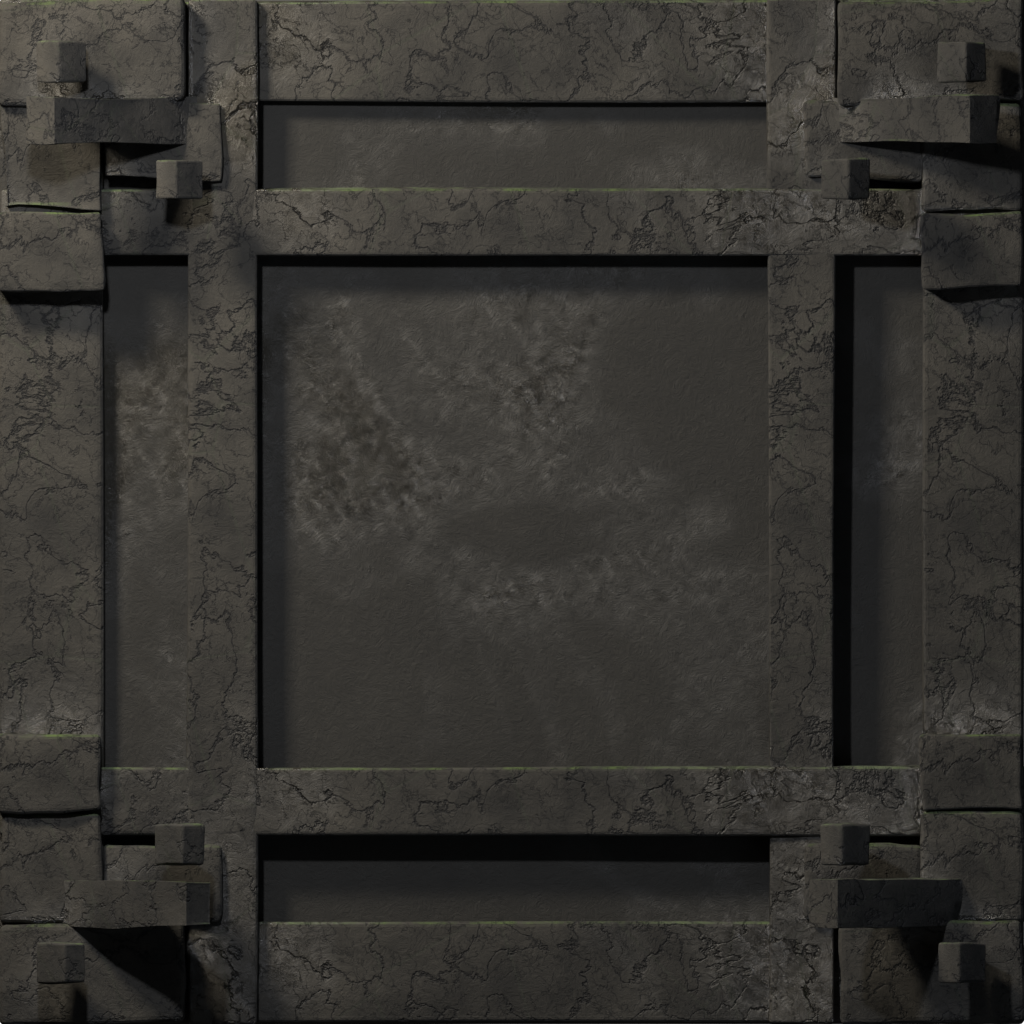
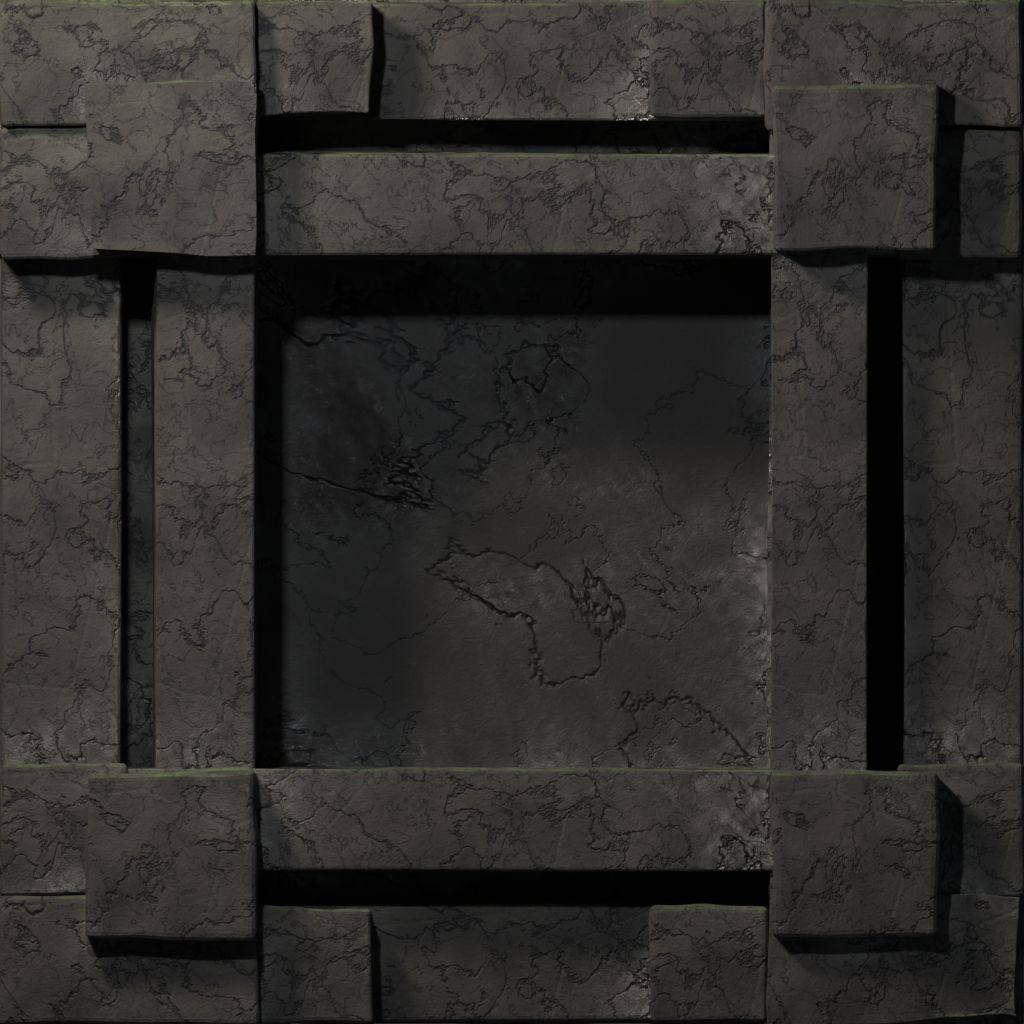
The card frame was built from the wrong numbers
Its outer border did not describe anything. Three courses standing on a
full-size backplate at y=-0.135, with the middle course at y=-0.105 -- so the
panel's own background sat nearer the camera than its masonry and hid a whole
course behind it. What showed was an outer course and an inner lip with a
slab wedged between them at no depth that meant anything.

Both frames are built from the same three pieces now, and they are the screen
border's, because the screen border's were the ones that worked:

  stone_band      a solid band over the border zone only, so the recessed
                  channel has a wall behind it instead of transparent film
  stone_courses   two bold courses, each a constant cross-section, weathered
                  at a seventh frequency along the run so stretching cannot
                  find anything with a size to distort
  stone_corner    four interlocking quoins and one keystone across the mitre

The card frame adds a flat dark field behind all of it, set *behind* the band
rather than in front of it, because `border-image-slice: ... fill` stretches
that across the whole panel as its background and anything with a frequency
in it turns to mush at large sizes.

Not identical -- the card frame is chipped and displaced a little less, since
it is drawn smaller and read closer.

diff --git a/art/blender/ui_frames.py b/art/blender/ui_frames.py
@@ -90,130 +90,153 @@ def _glint(energy=170):
 
 
 # =============================
-# --------- THE FRAME ---------
+# ------ MASONRY, SHARED ------
 # =============================
+#
+# Both frames in the game are built from these three pieces, because they were
+# built from two different sets of numbers before and only the screen border's
+# were right. The card frame had three courses on a full-size backplate that
+# sat *in front of* the middle one -- so the shadow groove it was named for
+# could not be seen at all, and what showed was an outer course and an inner
+# lip with a slab wedged between them at no sensible depth.
 
-#: The cross-section of every straight run, read outward-in as
-#: (thickness, depth toward the camera, centre distance from the middle).
-#: The three add up to exactly the 0.5-unit border, so the runs meet the
-#: backplate with no seam and the slice line falls where the CSS says it does.
-RUN_PROFILE = [
-    (0.200, 0.180, 0.900),   # outer course, proud
-    (0.170, 0.105, 0.715),   # shadow groove, recessed
-    (0.130, 0.205, 0.565),   # inner lip, proudest
+#: Read outward-in as (thickness, depth toward the camera, centre distance).
+#: Two bold courses with a recessed channel between them, and nothing else.
+#: An earlier screen border had five, which at the size these are actually
+#: drawn collapsed into a woven basket. Every line runs the length of its
+#: side, so stretching cannot smear any of it.
+COURSE_PROFILE = [
+    (0.230, 0.200, 0.880),   # outer course
+    (0.200, 0.290, 0.600),   # inner jamb, proudest, frames the opening
+]
+
+#: Interlocking corner blocks, alternating which way they turn. `u` runs
+#: inward along the top, `v` inward down the side, both from the outer corner.
+#: Everything stays inside half a unit: anything crossing the slice line is
+#: torn between a fixed corner and a stretched edge.
+CORNER_QUOINS = [
+    (0.000, 0.000, 0.500, 0.250, 0.330),
+    (0.000, 0.250, 0.250, 0.260, 0.300),
+    (0.250, 0.250, 0.250, 0.190, 0.255),
+    (0.500, 0.000, 0.230, 0.230, 0.290),
 ]
 
 
-def _corner_cluster(x, z, material, seed=0):
-    """The bit that never stretches, so the bit that gets to be interesting.
+def stone_band(stone, y=0.045, depth=0.06, amount=0.010):
+    """The wall the courses stand on, over the border zone only.
 
-    Dressed blocks at slightly wrong angles, a tie stone across the joint, and
-    the whole thing kept inside its own 0.5-unit box -- anything that crosses
-    the slice line gets torn in half between a fixed corner and a stretched
-    edge.
+    Without it the courses are separate bars with transparent film between
+    them -- the recessed channel has nothing behind it and renders as a hole
+    straight through the frame. Four slabs tile the band exactly and leave the
+    middle alone, which is either the opening or the panel's own background
+    depending on which frame is being built.
+    """
+    half = SPAN / 2
+    inner = half - BORDER
+    inset = (half + inner) / 2
+    for index, (position, size) in enumerate((
+        ((0, y, inset), (SPAN, depth, BORDER)),
+        ((0, y, -inset), (SPAN, depth, BORDER)),
+        ((-inset, y, 0), (BORDER, depth, SPAN - 2 * BORDER)),
+        ((inset, y, 0), (BORDER, depth, SPAN - 2 * BORDER)),
+    )):
+        slab = look.block(position, size, stone, name="band", bevel=0.02)
+        look.weather(slab, amount=amount, scale=5.0, cuts=12, seed=index + 40)
 
-    There was an iron strap and two pins here. Everything in the interface is
-    quarried now, so the strap is a tie stone and the pins are bosses cut from
-    the same block as the wall.
+
+def stone_courses(stone, profile=None, amount=0.013, scale=7.0, cuts=14,
+                  seed=0):
+    """The four straight runs, each a constant cross-section.
+
+    `along` is what makes them safe to stretch: a run is scaled along its
+    length by whatever the window happens to be, and across it by a fixed
+    amount, so lengthways noise drops to a seventh frequency and becomes a
+    slow undulation instead of a feature with a recognisable size.
+    """
+    for side, sign in (("top", 1), ("bottom", -1)):
+        for index, (thickness, depth, rise) in enumerate(profile or COURSE_PROFILE):
+            run = look.block((0, -depth / 2, sign * rise),
+                             (SPAN, depth, thickness), stone,
+                             name=f"{side}_course", bevel=0.018)
+            look.weather(run, amount=amount, scale=scale, along=0, cuts=cuts,
+                         seed=seed + index * 3 + (0 if sign > 0 else 7))
+    for side, sign in (("left", -1), ("right", 1)):
+        for index, (thickness, depth, rise) in enumerate(profile or COURSE_PROFILE):
+            # 4mm shallower than the horizontal course it crosses. Coplanar
+            # faces at a corner are Z-fighting, and it prints hard black
+            # staircases into exactly the four places people look.
+            depth -= 0.004
+            run = look.block((sign * rise, -depth / 2, 0),
+                             (thickness, depth, SPAN), stone,
+                             name=f"{side}_course", bevel=0.018)
+            look.weather(run, amount=amount, scale=scale, along=2, cuts=cuts,
+                         seed=seed + index * 3 + (13 if sign > 0 else 19))
+
+
+def stone_corner(x, z, stone, seed=0, amount=0.019, chip=0.075,
+                 keystone=0.330, keystone_depth=0.380):
+    """Heavy quoins and one keystone across the mitre.
+
+    Bold shapes only: these are drawn at a fraction of the size they are
+    modelled at, and fine carving turns to mush. There is no strap, no pin and
+    no bracket -- everything is cut from the same block as the wall.
     """
     sx = 1 if x > 0 else -1
     sz = 1 if z > 0 else -1
-    made = []
 
-    # Interlocking quoins: big blocks alternating which way they turn the
-    # corner, which is how a real corner is built and why it reads as one.
-    # `u` runs inward along the horizontal edge, `v` inward along the
-    # vertical, both measured from the outside corner. Everything stays under
-    # 0.5 so it cannot cross the slice line and get torn between a fixed
-    # corner and a stretched edge.
-    quoins = [
-        # (u, v, width, height, depth)
-        (0.000, 0.000, 0.360, 0.200, 0.262),   # long, running horizontally
-        (0.000, 0.200, 0.200, 0.215, 0.240),   # short, turning down
-        (0.200, 0.200, 0.230, 0.150, 0.222),
-        (0.000, 0.415, 0.200, 0.150, 0.250),   # long, running down
-    ]
-    for index, (u, v, w, h, depth) in enumerate(quoins):
-        wobble = ((index * 37) % 11 - 5) / 700.0
-        obj = look.block(
+    for index, (u, v, w, h, depth) in enumerate(CORNER_QUOINS):
+        wobble = ((index * 41) % 9 - 4) / 1100.0
+        block = look.block(
             (x - sx * (u + w / 2), -depth / 2, z - sz * (v + h / 2)),
-            (w, depth, h), material,
-            rotation=(0, wobble * 3.0, wobble * 1.8),
-            name=f"Quoin{seed}_{index}", bevel=0.013)
-        look.weather(obj, amount=0.012, scale=12.0, cuts=10,
-                     seed=seed * 31 + index, chip=0.050)
-        made.append(obj)
+            (w, depth, h), stone,
+            rotation=(0, wobble * 2.0, wobble * 1.3),
+            name=f"Quoin{seed}_{index}", bevel=0.020)
+        look.weather(block, amount=amount, scale=8.0, cuts=12,
+                     seed=seed * 29 + index, chip=chip)
 
-    # A tie stone laid across the mitre, and a boss at each end of it. Same
-    # block as the wall, so the corner reads as built rather than bolted.
-    tie = look.block((x - sx * 0.235, -0.300, z - sz * 0.235),
-                     (0.44, 0.075, 0.090), material,
-                     rotation=(0, 0, -sx * sz * math.radians(45)),
-                     name=f"Tie{seed}", bevel=0.016)
-    look.weather(tie, amount=0.010, scale=11.0, cuts=10, seed=seed * 5,
-                 chip=0.040)
-    made.append(tie)
-    for index, offset in enumerate((0.120, 0.350)):
-        boss = look.block((x - sx * offset, -0.345, z - sz * offset),
-                          (0.078, 0.060, 0.078), material,
-                          rotation=(0, 0, -sx * sz * math.radians(45)),
-                          name=f"Boss{seed}_{index}", bevel=0.020)
-        look.weather(boss, amount=0.006, scale=16.0, cuts=8,
-                     seed=seed * 17 + index)
-        made.append(boss)
-    return made
+    key = look.block((x - sx * keystone, -keystone_depth / 2, z - sz * keystone),
+                     (keystone, keystone_depth, keystone), stone,
+                     name=f"Keystone{seed}", bevel=0.055)
+    look.weather(key, amount=amount * 1.1, scale=7.0, cuts=14,
+                 seed=seed * 13 + 1, chip=chip * 1.2)
 
 
-def frame(path, mossy=True, tint=None, name="stone_frame"):
-    _setup()
-    stone = look.damp_stone("Frame stone", block_scale=3.4, wetness=0.66,
-                            mossy=mossy, seed=3, tint=tint, mortar=0.22,
-                            cracks=0.85, puddling=1.0)
-
+def stone_frame_body(stone, seed=0, amount=0.013, chip=0.075):
+    """Band, courses and four corners. The whole vocabulary in one call."""
+    stone_band(stone)
+    stone_courses(stone, amount=amount, seed=seed)
     half = SPAN / 2
-
-    # The recessed field the panel's content sits on. Held flat and dark on
-    # purpose: `border-image-slice: ... fill` stretches this across the whole
-    # panel, so anything with a frequency to it turns to mush at large sizes.
-    field = look.damp_stone("Frame field", block_scale=0.7, wetness=0.25,
-                            mossy=False, seed=23, mortar=0.0,
-                            tint=(0.0180, 0.0165, 0.0130, 1.0))
-    # Shallow on purpose. The inner lip stands 0.205 proud, and with the
-    # backplate at +0.055 the cast shadow reached 150px into the centre --
-    # which `border-image-slice: ... fill` then stretches over the whole
-    # panel, so a tall card got a shadow half its height. Pulling the plate
-    # forward keeps the shadow inside the edge slices, where stretching only
-    # moves it along the edge it belongs to.
-    look.block((0, -0.105, 0), (SPAN, 0.06, SPAN), field,
-               name="Backplate", bevel=0.02)
-
-    # --- the four straight runs, constant cross-section ------------------
-    for side, sign in (("top", 1), ("bottom", -1)):
-        for index, (thickness, depth, rise) in enumerate(RUN_PROFILE):
-            run = look.block((0, -depth / 2, sign * rise),
-                             (SPAN, depth, thickness), stone,
-                             name=f"{side}_run")
-            # along=0: X is the length of a horizontal run, so its noise drops
-            # to a seventh frequency there and survives being stretched.
-            look.weather(run, amount=0.009, scale=9.0, along=0, cuts=12,
-                         seed=index + (0 if sign > 0 else 5))
-    for side, sign in (("left", -1), ("right", 1)):
-        for thickness, depth, rise in RUN_PROFILE:
-            # 3mm shallower than its horizontal partner. Where the two cross
-            # at a corner their front faces were exactly coplanar, which is
-            # Z-fighting, and it printed hard black staircases into all four
-            # corners of the button before anyone noticed it in the frame.
-            depth -= 0.003
-            run = look.block((sign * rise, -depth / 2, 0),
-                             (thickness, depth, SPAN), stone,
-                             name=f"{side}_run")
-            look.weather(run, amount=0.009, scale=9.0, along=2, cuts=12,
-                         seed=index + (11 if sign > 0 else 17))
-
-    # --- corners ---------------------------------------------------------
     for index, (cx, cz) in enumerate(((-half, half), (half, half),
                                       (-half, -half), (half, -half))):
-        _corner_cluster(cx, cz, stone, seed=index + 1)
+        stone_corner(cx, cz, stone, seed=index + 1 + seed,
+                     amount=amount * 1.45, chip=chip)
+
+
+# =============================
+# --------- THE FRAME ---------
+# =============================
+
+def frame(path, mossy=True, tint=None, name="stone_frame"):
+    """A card's frame. The same masonry as the screen border, at card size."""
+    _setup()
+    stone = look.damp_stone("Frame stone", block_scale=2.6, wetness=0.66,
+                            mossy=mossy, seed=3, tint=tint, mortar=0.32,
+                            cracks=0.9, puddling=1.0)
+
+    # The panel's own background. `border-image-slice: ... fill` stretches
+    # this across the whole card, so it is held flat and dark -- anything with
+    # a frequency to it turns to mush at large sizes -- and set behind the
+    # band rather than in front of it. It used to sit at -0.135 with the
+    # middle course at -0.105, which put the background nearer the camera than
+    # the masonry and hid a whole course behind it.
+    field = look.damp_stone("Frame field", block_scale=0.7, wetness=0.30,
+                            mossy=False, seed=23, mortar=0.0, cracks=0.5,
+                            puddling=0.6,
+                            tint=(0.0180, 0.0165, 0.0130, 1.0))
+    look.block((0, 0.090, 0), (SPAN, 0.06, SPAN), field, name="Field",
+               bevel=0.02)
+
+    stone_frame_body(stone, amount=0.011, chip=0.055)
 
     _lighting()
     _glint()
@@ -233,77 +256,6 @@ def frame(path, mossy=True, tint=None, name="stone_frame"):
 #: was squeezed differently from the sides at any given thickness.
 BIG_RES = 2048
 BIG_SLICE = 512
-
-#: Read outward-in as (thickness, depth toward the camera, centre distance).
-#: Two bold courses with a recessed channel between them, and nothing else.
-#: The first attempt had five, which at the size this is actually drawn --
-#: `clamp(64px, 12vh, 150px)` against a 512px slice, so about a third scale --
-#: collapsed into a woven basket. Every line runs the length of the side, so
-#: stretching across a whole viewport cannot smear any of it.
-PORTAL_PROFILE = [
-    (0.230, 0.200, 0.880),   # outer course
-    (0.200, 0.290, 0.600),   # inner jamb, proudest, frames the opening
-]
-
-
-def _portal_ring(stone):
-    """The wall the courses stand on.
-
-    Without this the courses are separate bars floating with transparent film
-    between them: the recessed channel had nothing behind it, so it rendered
-    as a hole straight through the border. Four slabs tile the band exactly
-    and leave the middle open, which is the part the game is seen through.
-    """
-    half = SPAN / 2
-    band = half - BORDER          # where the opening begins
-    inset = (half + band) / 2     # centre of the band
-    for position, size in (
-        ((0, 0.045, inset), (SPAN, 0.06, BORDER)),      # top
-        ((0, 0.045, -inset), (SPAN, 0.06, BORDER)),     # bottom
-        ((-inset, 0.045, 0), (BORDER, 0.06, SPAN - 2 * BORDER)),
-        ((inset, 0.045, 0), (BORDER, 0.06, SPAN - 2 * BORDER)),
-    ):
-        slab = look.block(position, size, stone, name="ring", bevel=0.02)
-        look.weather(slab, amount=0.010, scale=5.0, cuts=12, seed=int(size[0]))
-
-
-def _portal_corner(x, z, stone, seed=0):
-    """Where the courses collide. Heavy quoins and a corbel.
-
-    Bold shapes only. This is seen at roughly a third of the size it is
-    modelled at, so fine carving would turn to mush -- and it is stone all the
-    way through: no strap, no pin, nothing that is not quarried.
-    """
-    sx = 1 if x > 0 else -1
-    sz = 1 if z > 0 else -1
-
-    quoins = [
-        # (u inward along the top, v inward down the side, w, h, depth)
-        (0.000, 0.000, 0.500, 0.250, 0.330),
-        (0.000, 0.250, 0.250, 0.260, 0.300),
-        (0.250, 0.250, 0.250, 0.190, 0.255),
-        (0.500, 0.000, 0.230, 0.230, 0.290),
-    ]
-    for index, (u, v, w, h, depth) in enumerate(quoins):
-        wobble = ((index * 41) % 9 - 4) / 1100.0
-        block = look.block(
-            (x - sx * (u + w / 2), -depth / 2, z - sz * (v + h / 2)),
-            (w, depth, h), stone,
-            rotation=(0, wobble * 2.0, wobble * 1.3),
-            name=f"Quoin{seed}_{index}", bevel=0.020)
-        look.weather(block, amount=0.019, scale=8.0, cuts=12,
-                     seed=seed * 29 + index, chip=0.075)
-
-    # One keystone set across the mitre. Three nested steps read as a
-    # ziggurat rather than as anything carved, and being the highest thing in
-    # the frame they collected most of its moss -- four bright green staircases
-    # in the corners of the screen.
-    key = look.block((x - sx * 0.330, -0.190, z - sz * 0.330),
-                     (0.330, 0.380, 0.330), stone,
-                     name=f"Keystone{seed}", bevel=0.055)
-    look.weather(key, amount=0.021, scale=7.0, cuts=14,
-                 seed=seed * 13 + 1, chip=0.090)
-
 
 def game_frame(path, name="stone_portal"):
     """The border around the entire game. Dark stone, and nothing else.
@@ -337,33 +289,7 @@ def game_frame(path, name="stone_portal"):
                             tint=(0.0186, 0.0167, 0.0131, 1.0),
                             cracks=1.0, puddling=1.0)
 
-    half = SPAN / 2
-    _portal_ring(stone)
-    for side, sign in (("top", 1), ("bottom", -1)):
-        for index, (thickness, depth, rise) in enumerate(PORTAL_PROFILE):
-            course = look.block((0, -depth / 2, sign * rise),
-                                (SPAN, depth, thickness), stone,
-                                name=f"{side}_course", bevel=0.018)
-            # along=0: X is the length of a horizontal run, so its noise runs
-            # at a seventh frequency and survives being stretched anywhere
-            # from 0.64x to 3.6x.
-            look.weather(course, amount=0.013, scale=7.0, along=0, cuts=14,
-                         seed=index * 3 + (0 if sign > 0 else 7))
-    for side, sign in (("left", -1), ("right", 1)):
-        for index, (thickness, depth, rise) in enumerate(PORTAL_PROFILE):
-            # 4mm shallower than the horizontal course it crosses. Coplanar
-            # faces at a corner are Z-fighting, and it prints hard black
-            # staircases into exactly the four places people look.
-            depth -= 0.004
-            course = look.block((sign * rise, -depth / 2, 0),
-                                (thickness, depth, SPAN), stone,
-                                name=f"{side}_course", bevel=0.018)
-            look.weather(course, amount=0.013, scale=7.0, along=2, cuts=14,
-                         seed=index * 3 + (13 if sign > 0 else 19))
-
-    for index, (cx, cz) in enumerate(((-half, half), (half, half),
-                                      (-half, -half), (half, -half))):
-        _portal_corner(cx, cz, stone, seed=index + 1)
+    stone_frame_body(stone, amount=0.013, chip=0.075)
 
     # Lit like the panels, from the upper left, so the border belongs to the
     # same room as everything inside it.

diff --git a/art/README.md b/art/README.md
@@ -43,6 +43,22 @@ block and the moss moves.
 | `blender/scenes.py` | The crypt, and four landscapes. → `static/ui/scenes/` |
 | `render.py` | Finds Blender and runs the above. |
 
+## One masonry vocabulary
+
+`stone_band`, `stone_courses` and `stone_corner` build every frame in the
+game. The card frame and the screen border used to be two different sets of
+numbers, and only the border's were right: the card frame had three courses
+standing on a full-size backplate that sat *in front of* the middle one, so
+the shadow groove it was named for could not be seen, and what showed was an
+outer course and an inner lip with a slab wedged between them at no sensible
+depth.
+
+The pieces are: a solid band over the border zone only; two bold courses with
+a recessed channel between them, each a constant cross-section; four
+interlocking quoins and one keystone at each corner. The card frame adds a
+flat dark field behind all of it, because `border-image-slice: ... fill`
+stretches that across the whole panel as its background.
+
 ## The border around the whole screen
 
 `stone_portal.png` replaces the painted `Game_Frame.png`, which is stone plus
